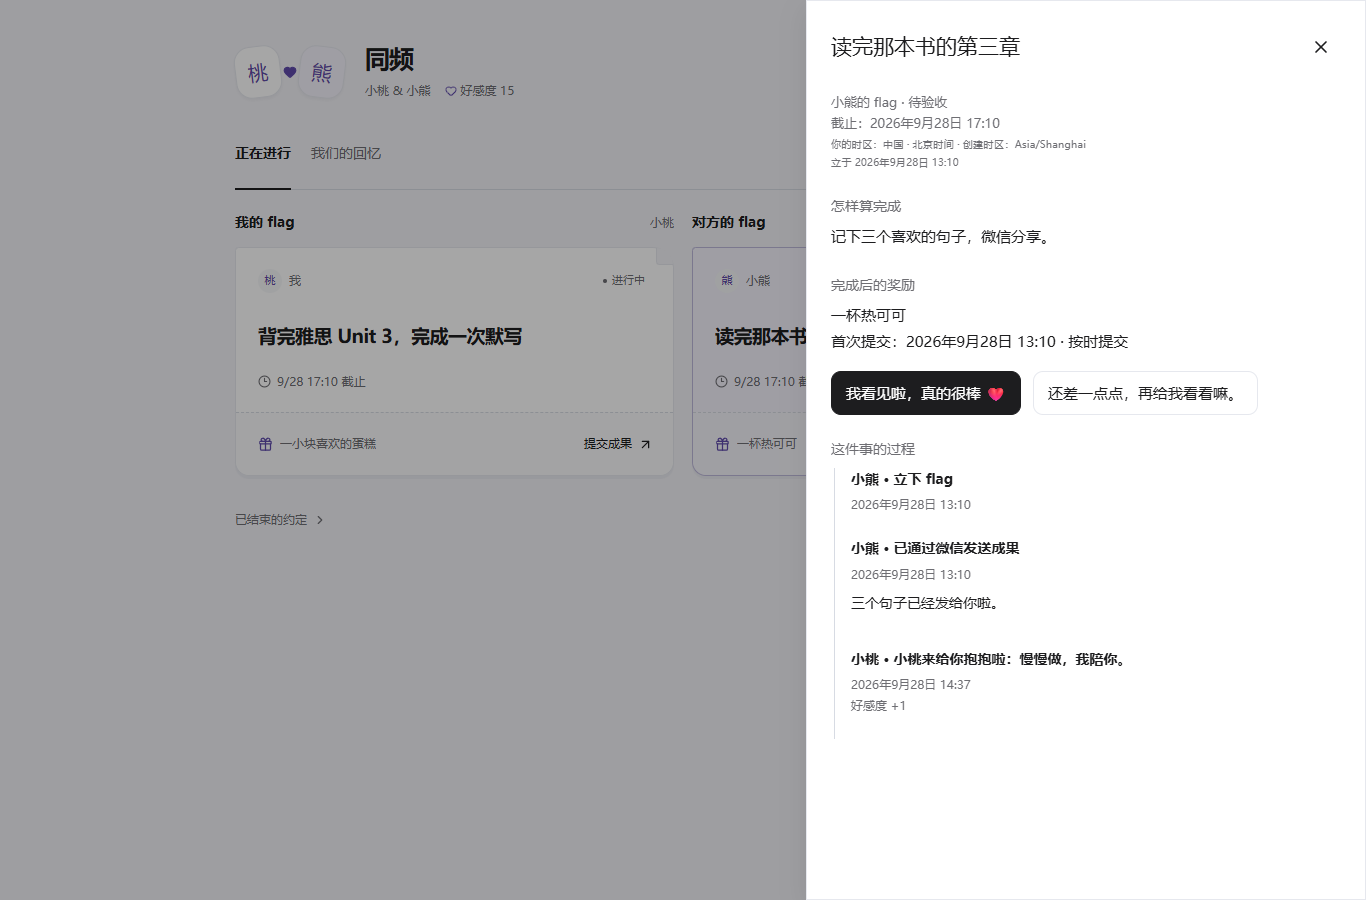
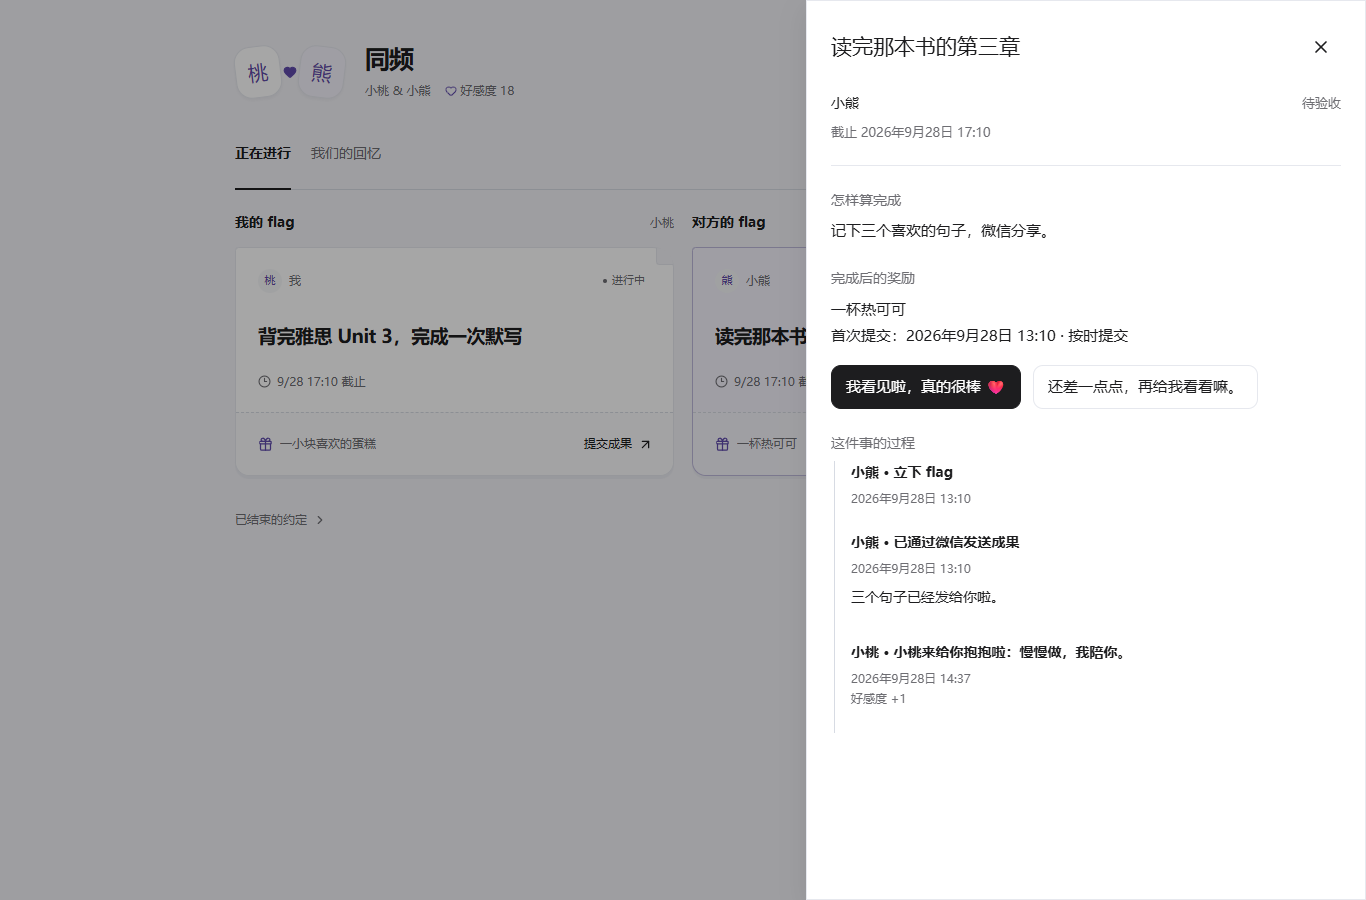
ui(together)：精简表单详情说明并统一同行选填标记

diff --git a/src/features/together/flag-editor.tsx b/src/features/together/flag-editor.tsx
@@ -73,13 +73,15 @@ export function FlagEditor({
             <input
               required
               type="datetime-local"
+              title={timezoneLabel(zone)}
               value={deadline}
               onChange={(event) => setDeadline(event.target.value)}
             />
           </label>
-          <small>按你的时区填写：{timezoneLabel(zone)}</small>
           <label>
-            完成后的奖励 <small>选填</small>
+            <span>
+              完成后的奖励<span className="together-optional">（选填）</span>
+            </span>
             <input
               maxLength={200}
               value={reward}
@@ -90,7 +92,9 @@ export function FlagEditor({
           <details open={flag?.description ? true : undefined}>
             <summary>补充说明</summary>
             <label>
-              怎样算完成
+              <span>
+                怎样算完成<span className="together-optional">（选填）</span>
+              </span>
               <textarea
                 maxLength={1000}
                 value={description}
@@ -99,7 +103,6 @@ export function FlagEditor({
               />
             </label>
           </details>
-          <p className="together-muted">请{partner}见证，成果通过微信发送。</p>
           <button className="together-primary" type="submit">
             {flag ? '保存修改' : '立下 flag'}
           </button>

diff --git a/src/features/together/settings.tsx b/src/features/together/settings.tsx
@@ -70,7 +70,6 @@ export function SpaceSettings({
                 placeholder="只有你们两个人用的称呼"
               />
             </label>
-            <small>昵称双方可见，对方可以恢复自己的展示名。</small>
             <button className="together-primary">保存称呼</button>
           </form>
           {(user === room.user_a ? room.nickname_a : room.nickname_b) && (
@@ -124,12 +123,8 @@ export function SpaceSettings({
             >
               解除绑定
             </summary>
-            <p>
-              解除后停止互动，未完成的 flag
-              会结束。旧记录仅你们两人可读，新对象无法查看。
-            </p>
             <button className="together-danger" onClick={() => void save('end_room')}>
-              确认解除绑定
+              解除并结束未完成的 flag
             </button>
           </details>
         </fieldset>

diff --git a/src/features/together/flag-detail.tsx b/src/features/together/flag-detail.tsx
@@ -73,14 +73,13 @@ export function FlagDetail({
   return (
     <SpaceDialog title={flag.title} onClose={onClose} drawer>
       <div className="together-detail-meta">
-        <span>
-          {memberName(room, flag.owner_id)}的 flag · {statusLabel[flag.status]}
-        </span>
-        <p>截止：{spaceTime(flag.deadline, zone)}</p>
-        <small>
-          你的时区：{timezoneLabel(zone)} · 创建时区：{flag.timezone}
-        </small>
-        <small>立于 {spaceTime(flag.created_at, zone)}</small>
+        <div className="together-detail-owner">
+          <span>{memberName(room, flag.owner_id)}</span>
+          <span className="together-detail-status">{statusLabel[flag.status]}</span>
+        </div>
+        <time dateTime={flag.deadline} title={timezoneLabel(zone)}>
+          截止 {spaceTime(flag.deadline, zone)}
+        </time>
       </div>
       {flag.description && (
         <section>

diff --git a/src/features/together/together.css b/src/features/together/together.css
@@ -586,6 +586,11 @@
   font: inherit;
   font-size: 16px;
 }
+.together-optional {
+  color: var(--text-secondary);
+  font-weight: 400;
+  white-space: nowrap;
+}
 .together-dialog textarea {
   min-height: 110px;
   resize: vertical;
@@ -678,8 +683,25 @@
 .together-detail-meta {
   color: var(--text-secondary);
   font-size: 13px;
+  padding-bottom: 20px;
+  border-bottom: 1px solid var(--border);
 }
-.together-detail-meta small {
+.together-detail-owner {
+  display: flex;
+  align-items: baseline;
+  justify-content: space-between;
+  gap: 16px;
+  margin-bottom: 8px;
+  color: var(--text-primary);
+  font-size: 14px;
+  overflow-wrap: anywhere;
+}
+.together-detail-status {
+  flex-shrink: 0;
+  color: var(--text-secondary);
+  font-size: 13px;
+}
+.together-detail-meta time {
   display: block;
   line-height: 1.8;
 }

diff --git a/docs/together-copy.md b/docs/together-copy.md
@@ -36,11 +36,10 @@
 
 | 文案 / 模板                                                                  | 来源                                                        |
 | ---------------------------------------------------------------------------- | ----------------------------------------------------------- |
-| · 创建时区：                                                                 | flag-detail.tsx                                             |
 | · 已见证                                                                     | flag-card.tsx                                               |
+| （选填）                                                                     | flag-editor.tsx                                             |
 | ${memberName(room, room.user_a)}与${memberName(room, room.user_b)}           | panel.tsx                                                   |
 | ${partner}发来了关系变更。                                                   | panel.tsx                                                   |
-| 按你的时区填写：                                                             | flag-editor.tsx                                             |
 | 按时提交                                                                     | flag-detail.tsx                                             |
 | 保存称呼                                                                     | binding.tsx、settings.tsx                                   |
 | 保存修改                                                                     | flag-editor.tsx                                             |
@@ -61,7 +60,6 @@
 | 待补充                                                                       | copy.ts                                                     |
 | 待验收                                                                       | copy.ts                                                     |
 | 当前离线，输入已保留，请联网后重试。                                         | state.tsx                                                   |
-| 的 flag ·                                                                    | flag-detail.tsx                                             |
 | 等 TA 立下一个小目标。                                                       | flag-board.tsx                                              |
 | 等待 TA 验收                                                                 | copy.ts                                                     |
 | 等你验收                                                                     | flag-card.tsx                                               |
@@ -95,19 +93,17 @@
 | 恢复我的展示名                                                               | settings.tsx                                                |
 | 回到现在的空间                                                               | panel.tsx                                                   |
 | 加油已送到                                                                   | flag-card.tsx                                               |
-| 见证，成果通过微信发送。                                                     | flag-editor.tsx                                             |
 | 奖励自己一杯奶茶                                                             | flag-editor.tsx                                             |
 | 接受邀请                                                                     | binding.tsx                                                 |
 | 结束                                                                         | settings.tsx                                                |
 | 结束后保留记录，不计为完成，也不扣好感度。                                   | flag-detail.tsx                                             |
 | 结束了这条 flag                                                              | flag-detail.tsx                                             |
 | 结束这条 flag                                                                | flag-detail.tsx                                             |
-| 截止                                                                         | flag-card.tsx                                               |
-| 截止：                                                                       | flag-detail.tsx                                             |
+| 截止                                                                         | flag-card.tsx、flag-detail.tsx                              |
 | 截止后提交                                                                   | flag-detail.tsx                                             |
 | 截止时间                                                                     | flag-editor.tsx                                             |
 | 解除绑定                                                                     | settings.tsx                                                |
-| 解除后停止互动，未完成的 flag 会结束。旧记录仅你们两人可读，新对象无法查看。 | settings.tsx                                                |
+| 解除并结束未完成的 flag                                                      | settings.tsx                                                |
 | 今天想完成什么？                                                             | copy.ts                                                     |
 | 今天想完成什么？悄悄告诉 TA。                                                | copy.ts                                                     |
 | 进行中                                                                       | copy.ts                                                     |
@@ -118,7 +114,6 @@
 | 立个 flag                                                                    | flag-editor.tsx、panel.tsx                                  |
 | 立个小目标，请对方见证。                                                     | flag-board.tsx                                              |
 | 立下 flag                                                                    | flag-detail.tsx、flag-editor.tsx                            |
-| 立于                                                                         | flag-detail.tsx                                             |
 | 例如：完成默写，正确率达到 90%                                               | flag-editor.tsx                                             |
 | 两人空间                                                                     | panel.tsx                                                   |
 | 留一句夸奖（选填）                                                           | flag-detail.tsx                                             |
@@ -126,16 +121,13 @@
 | 目标                                                                         | flag-editor.tsx                                             |
 | 内容刚刚发生变化，输入已保留。请关闭后重新打开，核对最新内容再提交。         | repository.ts                                               |
 | 你                                                                           | flag-card.tsx                                               |
-| 你的时区：                                                                   | flag-detail.tsx                                             |
 | 你的小目标，我都有认真看见。                                                 | copy.ts                                                     |
 | 你或对方已经绑定，请刷新查看。                                               | repository.ts                                               |
 | 你没有执行此操作的权限。                                                     | repository.ts                                               |
 | 你在这里叫「                                                                 | binding.tsx                                                 |
 | 你做到啦。你的认真和努力，我都有好好看见。                                   | copy.ts                                                     |
-| 昵称双方可见，对方可以恢复自己的展示名。                                     | settings.tsx                                                |
 | 年                                                                           | memory-timeline.tsx                                         |
 | 情侣                                                                         | binding.tsx、copy.ts、settings.tsx                          |
-| 请                                                                           | flag-editor.tsx                                             |
 | 请补充一下                                                                   | copy.ts、flag-detail.tsx                                    |
 | 请对方确认关系                                                               | settings.tsx                                                |
 | 请检查输入。                                                                 | flag-editor.tsx                                             |
@@ -153,7 +145,6 @@
 | 确认发送，交给对方验收                                                       | flag-detail.tsx                                             |
 | 确认关系                                                                     | settings.tsx                                                |
 | 确认结束                                                                     | flag-detail.tsx                                             |
-| 确认解除绑定                                                                 | settings.tsx                                                |
 | 确认了新的关系                                                               | supabase/migrations/202609280001_together.sql               |
 | 日                                                                           | memory-timeline.tsx                                         |
 | 上次提交结果尚未确认，请先按原内容重试，或关闭后核对最新记录。               | use-command.ts                                              |
@@ -183,7 +174,6 @@
 | 修改了目标或约定                                                             | supabase/migrations/202609280001_together.sql               |
 | 修改了约定                                                                   | flag-detail.tsx                                             |
 | 需要补充什么                                                                 | flag-detail.tsx                                             |
-| 选填                                                                         | flag-editor.tsx                                             |
 | 验收通过                                                                     | copy.ts、flag-detail.tsx                                    |
 | 邀请                                                                         | binding.tsx                                                 |
 | 邀请码已复制，通过微信发给对方吧。                                           | binding.tsx                                                 |

diff --git a/docs/together-space.md b/docs/together-space.md
@@ -14,7 +14,7 @@
 
 页头把双人印记、空间名、称呼、好感度合在一起，右侧显示查看者本地时间与设置。删去常驻口号与重复说明；对方修改称呼时只提供可展开的轻提示。
 
-目标卡片就是完整的操作单元：作者与状态在上，目标居中，短日期在下；底部虚线分隔文字奖励和当前操作。桌面两栏各自纵向排列，手机先我后对方；栏头仅保留「我的 flag / 对方的 flag」和昵称，长昵称截断展示，避免重新堆满说明。完整日期与时区保留在详情与时间悬停说明里。
+目标卡片就是完整的操作单元：作者与状态在上，目标居中，短日期在下；底部虚线分隔文字奖励和当前操作。桌面两栏各自纵向排列，手机先我后对方；栏头仅保留「我的 flag / 对方的 flag」和昵称，长昵称截断展示，避免重新堆满说明。详情保留完整截止日期，时区放在时间悬停说明里，创建时间只在过程记录中显示。
 
 两个略微相向的名字印记用心形或连接符连接，目标卡带小折角，奖励区像一张小票，回忆改为日期分组的纵向时间轴，完成节点保留见证时间和惊喜入口。对方的未完成目标可直接点心形加油，成功后显示反馈并禁用重复发送；服务端计分规则不变。悬停、页签和心形反馈尊重减少动态效果。
 
@@ -23,6 +23,8 @@
 回忆时间轴参考 [Ant Design Timeline](https://ant.design/components/timeline/) 与 [Mantine Timeline](https://mantine.dev/core/timeline/) 的细线、节点和时间层级，由项目自身组件实现，不增加 UI 依赖。双方仍独立分栏、独立分页；加载更多后按查看者账号的本地日期统一归档，同一天只显示一次完整日期标题（如「2026年9月28日」）；每条记录的时刻放在线左侧，目标、奖励与惊喜在线右侧。目标和拆惊喜入口打开原详情，惊喜正文保持收起。
 
 详情沿用主题字体与按钮：桌面右侧 560 像素抽屉，手机全宽；验收表单居中，Escape 只退出最上层并返回打开按钮。情侣名称「同频」仅使入口更含蓄，空间内的昵称、心形与互动仍保留。
+
+创建表单采用 [GOV.UK 的选填标注方式](https://design-system.service.gov.uk/patterns/question-pages/)：奖励和完成标准的标题后同一行显示「（选填）」，不再另起一行小字。移除时区说明、微信提示与昵称说明等常驻辅助段落；详情顶部仅保留作者、状态和截止日期。解除绑定仍先展开再确认，按钮直接写明「解除并结束未完成的 flag」，移除冗长解释。
 
 ## 操作与时间规则
 
@@ -109,6 +111,10 @@ PGlite 验证 SQL、RLS 和事务业务规则，但单连接引擎不能替代 S
 <img src="screenshots/together/memories-mobile.png" width="390" alt="手机回忆时间轴" />
 
 ![成果详情抽屉](screenshots/together/detail-desktop.png)
+
+<img src="screenshots/together/editor-mobile.png" width="390" alt="选填标记与标题同行的创建表单" />
+
+<img src="screenshots/together/editor-mobile-dark.png" width="390" alt="深色创建表单" />
 
 ## 部署与兼容
 

diff --git a/README.md b/README.md
@@ -90,7 +90,7 @@ pnpm dev
 
 ## 文档导航
 
-两人空间的情侣入口名为「同频」，支持唯一对象绑定、好友/情侣称呼、单人 flag、微信成果声明、对方验收和文字惊喜。目标按「我的 flag / 对方的 flag」分栏展示为便笺卡片，卡上可直接为对方加油；回忆按本地日期呈现双方独立的时间轴；每个人看到自己的账号时区，页头显示本地时间。启用前需应用新增数据库迁移；详见 [两人空间设计与部署](docs/together-space.md)、[完整话术清单](docs/together-copy.md)。
+两人空间的情侣入口名为「同频」，支持唯一对象绑定、好友/情侣称呼、单人 flag、微信成果声明、对方验收和文字惊喜。创建时奖励和完成标准在标题旁标为「（选填）」；目标按「我的 flag / 对方的 flag」分栏展示为便笺卡片，卡上可直接为对方加油；回忆按本地日期呈现双方独立的时间轴；每个人看到自己的账号时区，页头显示本地时间。启用前需应用新增数据库迁移；详见 [两人空间设计与部署](docs/together-space.md)、[完整话术清单](docs/together-copy.md)。
 
 | 想了解什么               | 从这里开始                                                                                                          |
 | :----------------------- | :------------------------------------------------------------------------------------------------------------------ |
